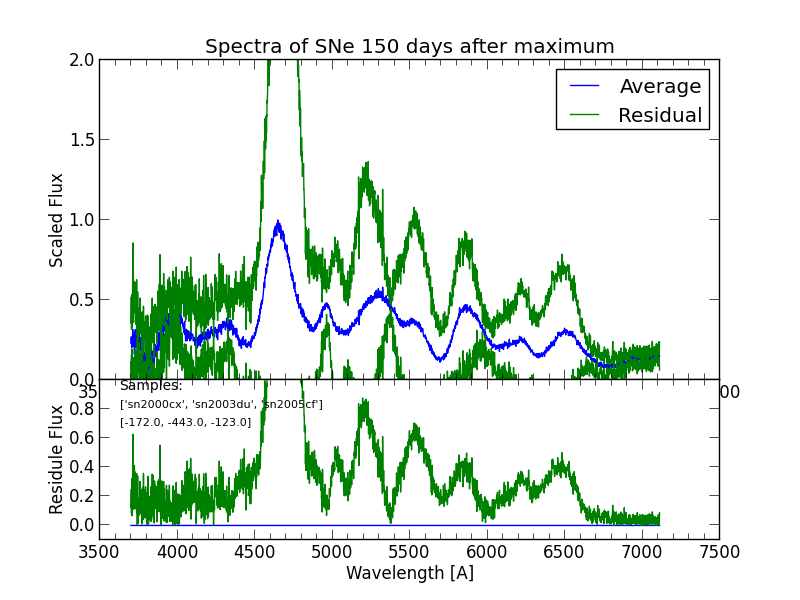
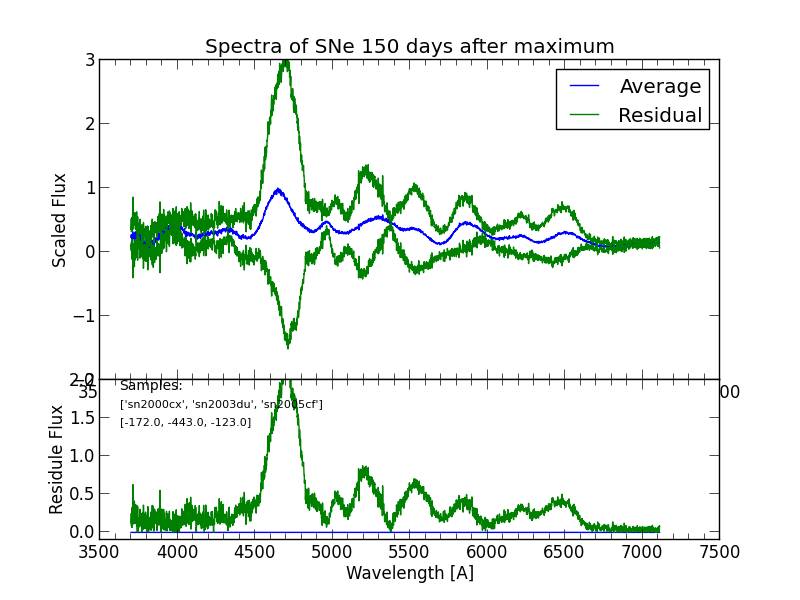
Change y limit for late time spectra. --Y.Cao

diff --git a/personal/ycao/src/spectrum.py b/personal/ycao/src/spectrum.py
@@ -137,10 +137,12 @@ def plotAverSpec(wave,averflux,fluxs,resflux):
     ax2.set_xlabel('Wavelength [A]')
 
     ax1.set_xlim(3500, 7500)
-    ax1.set_ylim(0.,2)
+#     ax1.set_ylim(0.,2)
+    ax1.set_ylim(-2,3)
 
     ax2.set_xlim(3500, 7500)
-    ax2.set_ylim(-0.1, 1)
+#     ax2.set_ylim(-0.1, 1)
+    ax2.set_ylim(-0.1,2)
 
     ax1.plot(wave, averflux,color='b',label='Average')
     ax1.plot(wave, averflux + resflux,color = 'g',label='Residual')
